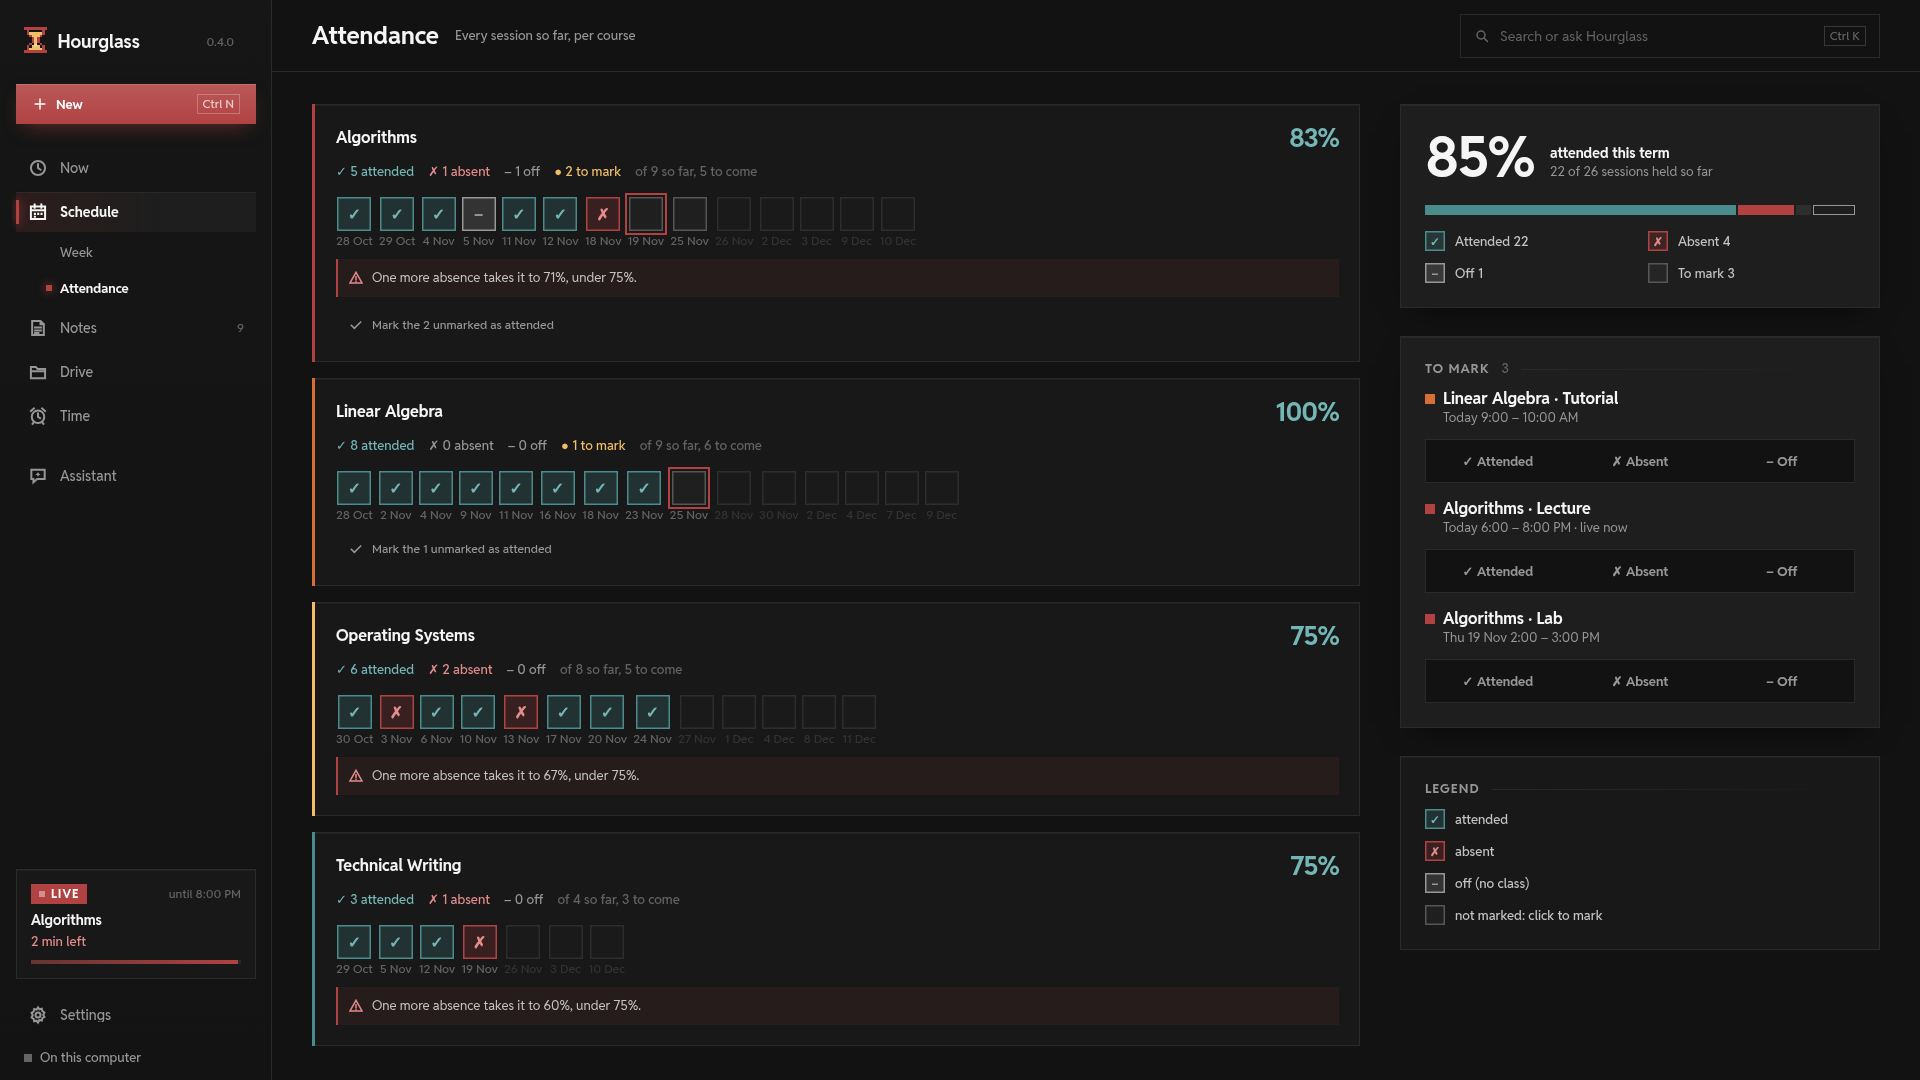
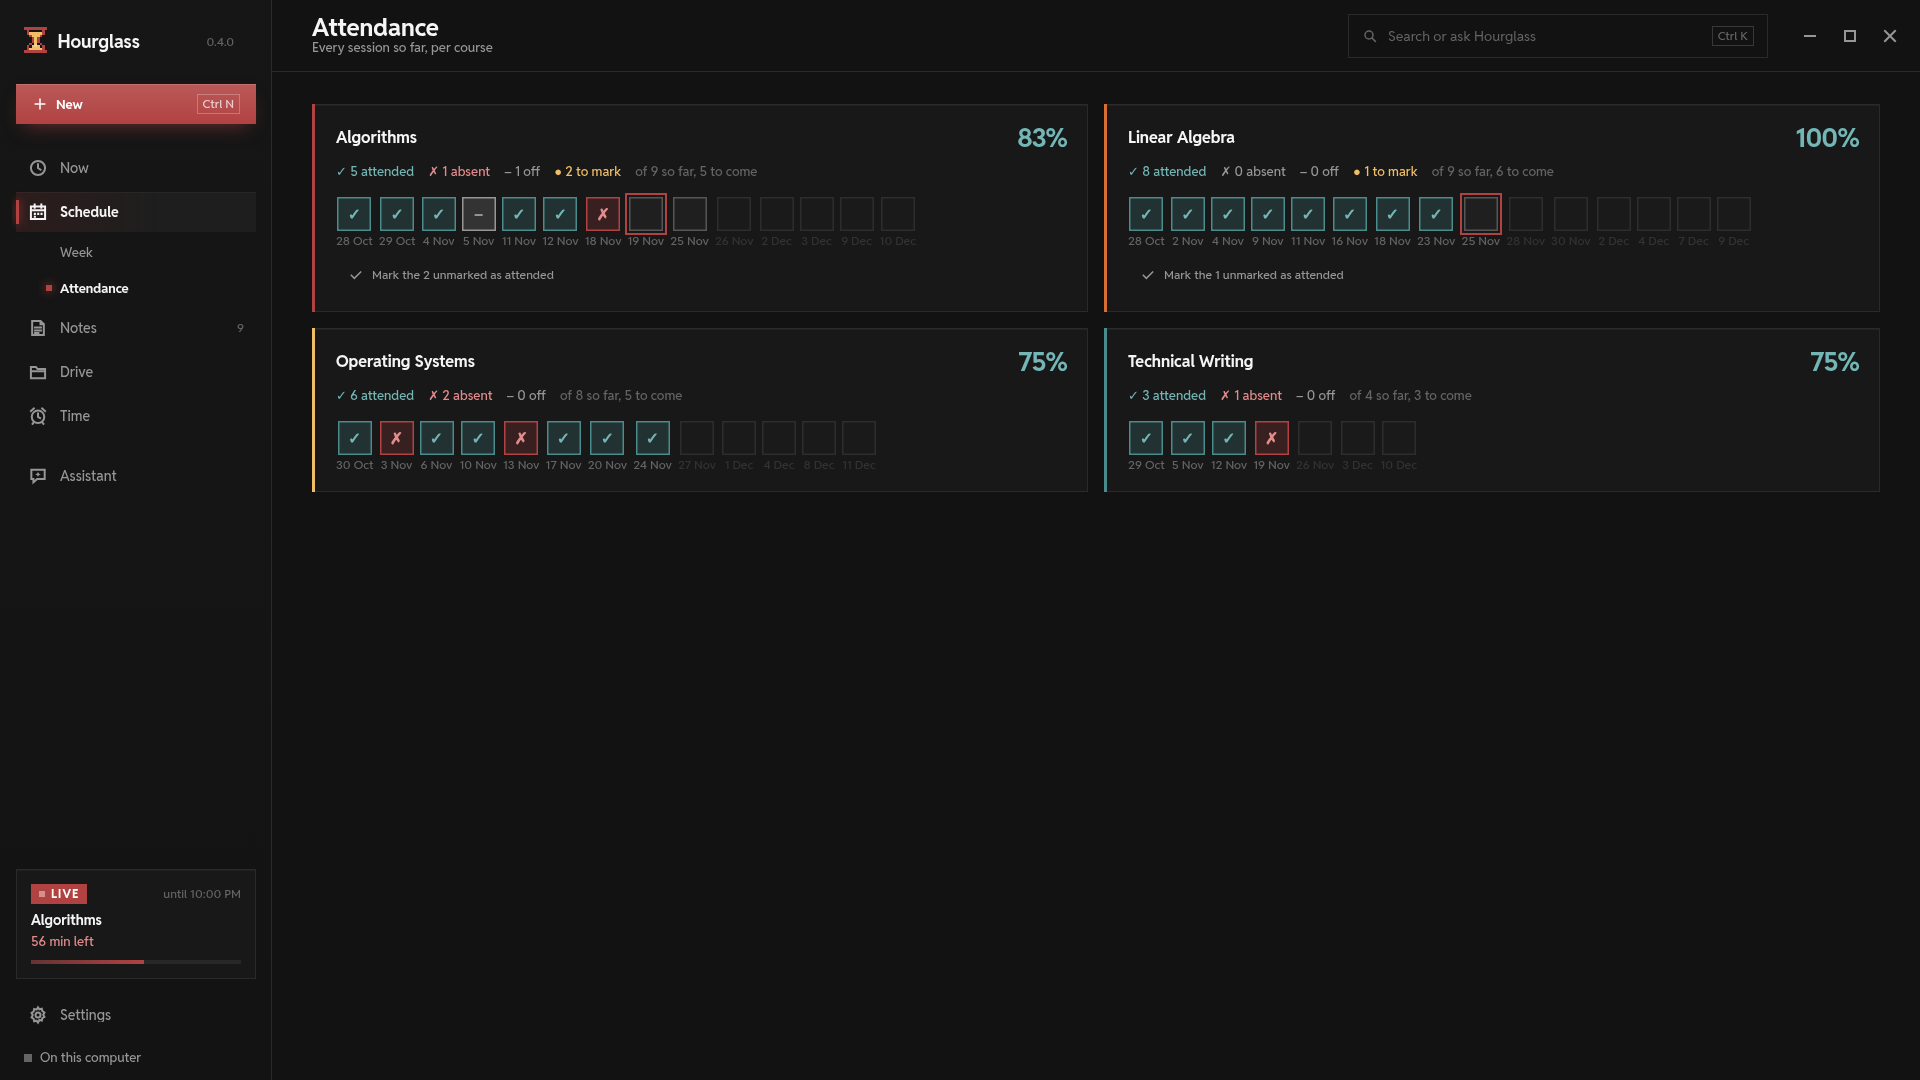
Desktop 0.4: remove what was marked not needed
- Notes: no 'Search or ask Hourglass' in the header (the page keeps Search notes; ctx.head's existing ask:false option, no shared-code change)
- Attendance: no term summary, To mark or Legend panels, no below-75% warnings; rate no longer turns red; course cards, boxes and click-to-mark unchanged

diff --git a/desktop/ui/pages/attendance.js b/desktop/ui/pages/attendance.js
@@ -1,8 +1,7 @@
 // Attendance: every course with every session so far (AttendancePage.qml). ✓ attended (teal), ✗ absent (red),
-// – off (muted), empty = not marked. Click a box to cycle it. Round 5 look: the course cards side by side with their
-// rate against 75%, and on the right the term at a glance, what is left to mark (with Attended / Absent / Off) and
-// the legend. The marks stay the original symbols (Maro, 2026-11-23), never coloured squares.
-import { h, icon, swap } from '../dom.js';
+// – off (muted), empty = not marked. Click a box to cycle it. The course cards sit side by side with their rate.
+// The marks stay the original symbols (Maro, 2026-11-23), never coloured squares.
+import { h, swap } from '../dom.js';
 
 const NEXT = { '': 'attended', attended: 'absent', absent: 'off', off: 'none' };
 const GLYPH = { attended: '✓', absent: '✗', off: '–', '': '' };
@@ -16,11 +15,10 @@ export default {
     let first = true;
     let popped = '';   // the box just marked here: it pops once
     const main = h('div', { class: 'col' });
-    const rail = h('div', { class: 'rail' });
     const headCtx = h('span', { class: 'ctx', text: 'Every session so far, per course' });
     const head = ctx.head({ title: 'Attendance' });
     head.insertBefore(headCtx, head.querySelector('.acts'));
-    root.append(head, h('div', { class: 'page' }, h('div', { class: 'cols att-cols' }, main, rail)));
+    root.append(head, h('div', { class: 'page' }, h('div', { class: 'cols one' }, main)));
     const today = () => U.dayOf(state.clock);
 
     async function load() {
@@ -55,21 +53,17 @@ export default {
     const mark = (course, date, status) => { popped = `${course.id}|${date}`; return api.action('mark_session', { course: course.id, date, status }).then(load); };
     const count = (list, m) => list.filter((s) => s.mark === m && (m || !s.future)).length;
     const rateOf = (yes, no) => (yes + no ? yes / (yes + no) : null);
-    const box = (m, { sm = false, cls = '' } = {}) => h('i', { class: `att-box sm ${m ? 'on' : ''} ${cls}`.trim(), style: { '--c': TINT[m] }, text: GLYPH[m] });
 
     function card({ course, sessions: list }) {
       const past = list.filter((s) => !s.future).length;
       const yes = count(list, 'attended'), no = count(list, 'absent'), off = count(list, 'off'), open = count(list, '');
       const rate = rateOf(yes, no);
-      const low = rate != null && rate < 0.75;
       const toCome = list.length - past;
-      // Below 75%: what one more absence does.
-      const worse = low || (rate != null && rateOf(yes, no + 1) < 0.75) ? Math.round(rateOf(yes, no + 1) * 100) : null;
       const firstOpen = list.find((s) => !s.mark && !s.future);
       return h('div', { class: 'card att-card', style: { '--c': course.color } },
         h('i', { class: 'edge' }),
         h('div', { class: 'row' }, h('b', { class: 'grow ellipsis att-name', text: course.name }),
-          h('b', { class: `att-rate tnum ${rate == null ? 'faint' : low ? 'ink' : 'teal-ink'}`, text: rate == null ? '—' : Math.round(rate * 100) + '%' })),
+          h('b', { class: `att-rate tnum ${rate == null ? 'faint' : 'teal-ink'}`, text: rate == null ? '—' : Math.round(rate * 100) + '%' })),
         h('div', { class: 'att-stats tnum' },
           h('span', { class: 'teal-ink', text: `✓ ${yes} attended` }), h('span', { class: no ? 'ink' : '', text: `✗ ${no} absent` }), h('span', { text: `– ${off} off` }),
           open ? h('span', { class: 'gold', text: `● ${open} to mark` }) : null, h('span', { class: 'faint', text: `of ${past} so far, ${toCome} to come` })),
@@ -80,49 +74,16 @@ export default {
               'data-tip': U.longDate(s.date), text: GLYPH[s.mark], onclick: () => mark(course, s.date, NEXT[s.mark]) }),
             h('small', { text: U.shortDate(s.date).split(' ').slice(1).join(' ') }));
         })),
-        worse != null && (low || toCome) ? h('div', { class: 'att-warn' }, icon('warning'), h('span', { text: low ? `Below 75%. One more absence takes it to ${worse}%; ${U.plural(toCome, 'session')} left this term.` : `One more absence takes it to ${worse}%, under 75%.` })) : null,
         open ? kit.btn(`Mark the ${open} unmarked as attended`, () => { for (const s of list) if (!s.mark && !s.future) mark(course, s.date, 'attended'); }, { kind: 'subtle', icon: 'check', compact: true, cls: 'self-start' }) : null);
-    }
-
-    // ---- the rail ----
-    function summary() {
-      const all = data.flatMap((d) => d.sessions);
-      const yes = count(all, 'attended'), no = count(all, 'absent'), off = count(all, 'off'), open = count(all, '');
-      const rate = rateOf(yes, no);
-      if (rate == null && !open) return null;
-      const seg = (n, cls) => (n ? h('i', { class: cls, style: { flex: String(n) } }) : null);
-      return h('div', { class: 'card raised att-sum' },
-        h('div', { class: 'row big-row' }, h('span', { class: `big tnum ${rate != null && rate < 0.75 ? 'ink' : ''}`, text: rate == null ? '—' : Math.round(rate * 100) + '%' }),
-          h('div', {}, h('b', { text: 'attended this term' }), h('small', { text: `${yes} of ${yes + no} sessions held so far` }))),
-        h('div', { class: 'stackbar' }, seg(yes, 'a'), seg(no, 'x'), seg(off, 'o'), seg(open, 'u')),
-        h('div', { class: 'att-legend' },
-          h('span', {}, box('attended'), `Attended ${yes}`), h('span', {}, box('absent'), `Absent ${no}`),
-          h('span', {}, box('off'), `Off ${off}`), h('span', {}, box(''), `To mark ${open}`)));
-    }
-    function toMark() {
-      const list = data.flatMap((d) => d.sessions.filter((s) => !s.mark && !s.future).map((s) => ({ ...s, course: d.course }))).sort((a, b) => (a.date < b.date ? 1 : -1));
-      if (!list.length) return null;
-      return h('div', { class: 'card raised rail-card' }, kit.section('To mark', String(list.length)),
-        h('div', { class: 'stack16' }, list.slice(0, 4).map((s) => h('div', { class: 'tomark', style: { '--c': s.course.color } },
-          h('div', { class: 'row' }, h('i', { class: 'dot' }), h('div', { class: 'grow' }, h('b', { class: 'ellipsis', text: `${s.course.name} · ${U.kindLabel(s.kind)}` }),
-            h('small', { text: `${s.date === today() ? 'Today' : U.shortDate(s.date)} ${U.range(s.start_time, s.end_time)}${s.live ? ' · live now' : ''}` }))),
-          kit.seg([{ label: '✓ Attended', value: 'attended', tint: 'var(--teal)' }, { label: '✗ Absent', value: 'absent', tint: 'var(--accent)' }, { label: '– Off', value: 'off', tint: 'var(--muted)' }], '', (v) => mark(s.course, s.date, v), { cls: 'mark-seg' })))),
-        list.length > 4 ? h('small', { class: 'faint more', text: `${list.length - 4} more in the courses` }) : null);
-    }
-    function legend() {
-      return h('div', { class: 'card rail-card' }, kit.section('Legend'),
-        h('div', { class: 'att-legend' }, h('span', {}, box('attended'), 'attended'), h('span', {}, box('absent'), 'absent'), h('span', {}, box('off'), 'off (no class)'), h('span', {}, box(''), 'not marked: click to mark')));
     }
 
     function render() {
       const shown = data.filter((d) => d.sessions.length);
       if (!data.length) {
         swap(main, h('div', { class: 'empty' }, h('h2', { text: 'No courses yet' }), h('p', { text: 'Add a course with its weekly times and its sessions show up here to mark.' }), kit.btn('Add a course', () => ctx.editCourse(null), { kind: 'primary', icon: 'plus' })));
-        rail.replaceChildren();
         return;
       }
       swap(main, h('div', { class: `att-grid-cards ${first ? 'stagger' : ''}` }, shown.map(card)));
-      swap(rail, summary(), toMark(), legend());
       first = false;
       popped = '';
     }

diff --git a/desktop/ui/css/pages.css b/desktop/ui/css/pages.css
@@ -179,8 +179,6 @@ button.it:hover .h { color: var(--accent-ink); }
 .fact > .ic { color: var(--muted); --s: 16px; margin-top: 2px; }
 .fact b { display: block; font: 700 var(--fs-body)/20px var(--ui); }
 .fact small { display: block; font: 400 var(--fs-small)/18px var(--ui); color: var(--muted); }
-.mark-seg { display: grid; grid-template-columns: repeat(3, 1fr); width: 100%; height: 44px; }
-.mark-seg button { font-weight: 700; }
 .agenda .page-col { max-width: 880px; }
 .agenda-item { display: grid; gap: 4px; padding: 12px 16px 12px 19px; text-align: left; color: var(--fg); font: inherit; }
 .agenda-item b { font: 700 var(--fs-title)/20px var(--ui); }
@@ -220,25 +218,8 @@ button.it:hover .h { color: var(--accent-ink); }
 .att-box.on:hover { background: color-mix(in srgb, var(--c) 36%, transparent); }
 .att-box.next { outline: 2px solid var(--accent); outline-offset: 2px; }
 .att-box.pop { animation: pop var(--t-sheet) var(--ease); }
-.att-box.sm { width: 20px; height: 20px; font-size: 12px; cursor: default; flex: none; }
-.att-warn { display: flex; gap: 8px; align-items: flex-start; padding: 10px 12px; font: 400 var(--fs-small)/18px var(--ui); color: var(--soft); background: color-mix(in srgb, var(--accent) 10%, transparent); box-shadow: inset 2px 0 0 var(--accent); }
-.att-warn .ic { color: var(--accent-ink); --s: 16px; margin-top: 1px; }
-.att-sum { padding: 24px; }
-.att-sum .big-row { align-items: flex-end; gap: 16px; }
-.att-sum .big { font: 700 56px/1 var(--ui); letter-spacing: -2px; }
-.att-sum b { display: block; font: 700 var(--fs-body)/20px var(--ui); }
-.att-sum small { display: block; font: 400 var(--fs-small)/18px var(--ui); color: var(--muted); padding-bottom: 4px; }
-.stackbar { display: flex; height: 10px; gap: 2px; margin-top: 20px; }
-.stackbar i { display: block; height: 100%; }
-.stackbar .a { background: var(--teal); } .stackbar .x { background: var(--accent); } .stackbar .o { background: var(--surface4); }
-.stackbar .u { box-shadow: inset 0 0 0 1px var(--muted); }
-.att-legend { display: grid; grid-template-columns: 1fr 1fr; gap: 12px 16px; margin-top: 16px; font: 500 13px/1 var(--ui); color: var(--soft); }
-.att-legend span { display: inline-flex; align-items: center; gap: 10px; min-width: 0; }
-.rail-card > .section + .att-legend { margin-top: 0; grid-template-columns: 1fr; }
-.tomark { display: grid; gap: 12px; }
-.tomark .dot { width: 10px; height: 10px; flex: none; background: var(--c); align-self: flex-start; margin-top: 5px; }
-.tomark b { display: block; font: 700 var(--fs-title)/20px var(--ui); }
-.tomark small { display: block; font: 400 var(--fs-small)/18px var(--ui); color: var(--muted); }
+.mark-seg { display: grid; grid-template-columns: repeat(3, 1fr); width: 100%; height: 44px; }
+.mark-seg button { font-weight: 700; }
 .rail-card .more { display: block; margin-top: 16px; font-size: var(--fs-small); }
 
 /* ---- Alarms: the next ring first, then the cards; a skipped ring is gold ---- */

diff --git a/desktop/ui/pages/notes.js b/desktop/ui/pages/notes.js
@@ -14,7 +14,7 @@ export default {
 
     const searchBox = kit.search({ placeholder: 'Search notes', oninput: (v) => { query = v; renderGrid(); } });
     const ctxLine = h('span', { class: 'ctx' });
-    const head = ctx.head({ title: 'Notes' });
+    const head = ctx.head({ title: 'Notes', ask: false });
     head.insertBefore(ctxLine, head.querySelector('.acts'));
     const folders = h('nav', { class: 'folders' });
     const take = h('div', { class: 'take' });
